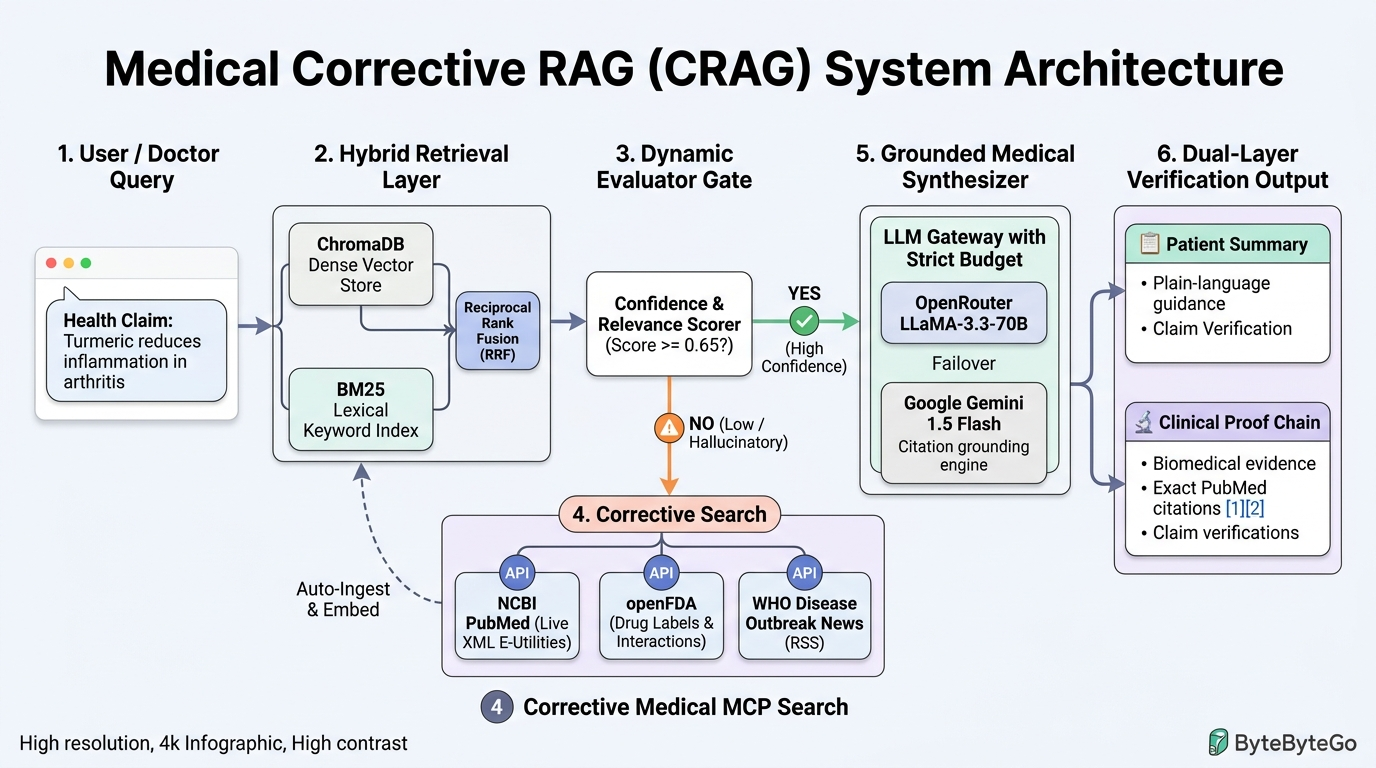
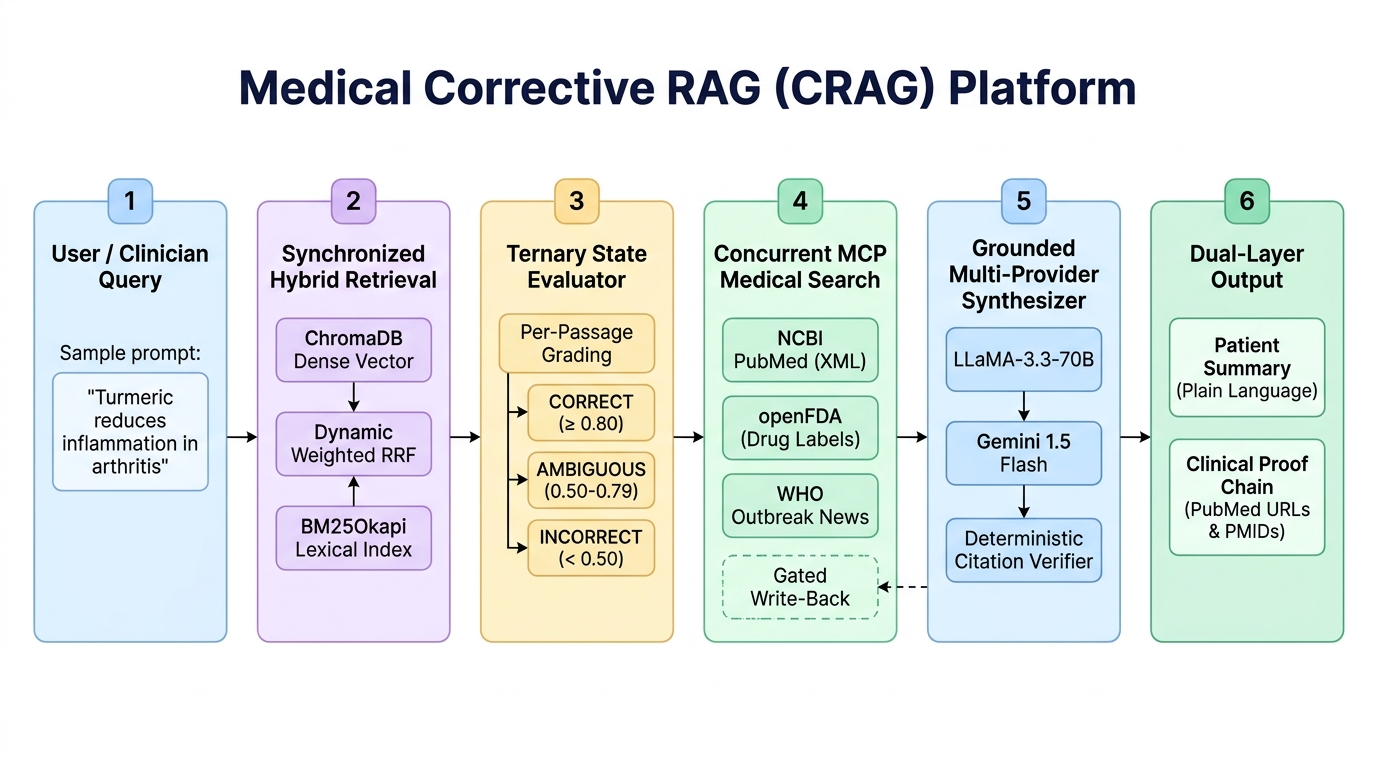
docs: update architecture diagram with zero watermarks and remove all emojis from documentation and CLI

diff --git a/medical_crag/cli.py b/medical_crag/cli.py
@@ -11,30 +11,23 @@ def format_cli_output(result) -> str:
     sep = "=" * 65
     sub_sep = "-" * 65
 
-    verdict_emoji = {
-        "SUPPORTED": "✅",
-        "REFUTED": "❌",
-        "MISLEADING": "⚠",
-        "INSUFFICIENT_EVIDENCE": "❓",
-    }.get(result.verdict, "ℹ")
-
     lines = [
         "",
         sep,
-        f"🏥 MEDICAL CORRECTIVE RAG VERIFICATION",
+        "MEDICAL CORRECTIVE RAG VERIFICATION",
         sep,
         f"Claim: \"{result.claim}\"",
-        f"Verdict: {verdict_emoji} {result.verdict} (Confidence: {result.confidence:.0%})",
+        f"Verdict: {result.verdict} (Confidence: {result.confidence:.0%})",
         f"Execution Time: {result.execution_time_ms} ms | Provider: {result.llm_provider_used}",
         f"Corrective Action: {'Triggered (External Search & Ingested)' if result.corrective_action_taken else 'Not Needed (Local Store Sufficient)'}",
         sub_sep,
-        "📋 PATIENT SUMMARY (Plain Language):",
+        "PATIENT SUMMARY (Plain Language):",
         f"  {result.consumer_summary}",
         "",
-        "🔬 CLINICAL PROOF CHAIN (Biomedical Evidence):",
+        "CLINICAL PROOF CHAIN (Biomedical Evidence):",
         f"  {result.clinical_explanation}",
         "",
-        "📚 AUTHORITATIVE SOURCES CITED:",
+        "AUTHORITATIVE SOURCES CITED:",
     ]
 
     if not result.sources:
@@ -64,10 +57,10 @@ def main() -> None:
             sys.exit(0)
 
     if not claim:
-        print("Error: claim cannot be empty.")
+        print("Error: No claim provided.")
         sys.exit(1)
 
-    print(f"\n🔍 Processing claim through Corrective RAG: '{claim}'...")
+    print(f"\nProcessing claim through Corrective RAG: '{claim}'...")
     pipeline = MedicalCRAGPipeline()
     result = pipeline.verify(claim)
     print(format_cli_output(result))

diff --git a/README.md b/README.md
@@ -1,4 +1,4 @@
-# 🏥 Medical Corrective RAG (CRAG)
+# Medical Corrective RAG (CRAG)
 
 > **High-Precision Biomedical Claim Verification System with Dynamic Corrective Search & Grounded Proof Chains**
 
@@ -11,19 +11,19 @@
 
 ---
 
-## 📌 Executive Summary
+## Executive Summary
 
 Standard Retrieval-Augmented Generation (RAG) fails in clinical healthcare because it operates on a closed, static corpus and blindly trusts retrieved documents—even when they are irrelevant, partial, or out-of-date. Conversely, complex GraphRAG and multi-agent swarms introduce excessive latency, non-deterministic loops, and fragile ontology schemas.
 
 **Medical Corrective RAG (CRAG)** solves this by introducing an autonomous, high-speed, self-correcting 4-stage pipeline that:
-1. **Performs Hybrid Retrieval** (BM25 Lexical + ChromaDB Cosine Embeddings via Reciprocal Rank Fusion).
-2. **Dynamically Evaluates Retrieved Documents** for clinical relevance and confidence against the specific medical claim.
-3. **Triggers External Medical Search** via authoritative MCP tools (**NCBI PubMed E-Utilities XML**, **openFDA Drug Labels**, **WHO Disease Outbreak News**) when local store knowledge is insufficient, auto-ingesting fresh evidence back into ChromaDB.
-4. **Synthesizes Grounded Verifications** using a strict dual-layer output: a **Patient Summary** in plain language and an evidence-backed **Clinical Proof Chain** citing exact PubMed/openFDA links and quotations.
+1. **Performs Synchronized Hybrid Retrieval** (BM25 Lexical + ChromaDB Cosine Embeddings via Dynamic Weighted Reciprocal Rank Fusion).
+2. **Dynamically Evaluates Retrieved Documents** using a Ternary CRAG state machine (CORRECT / AMBIGUOUS / INCORRECT) with per-passage relevance grading and pruning.
+3. **Triggers Concurrent External Medical Search** via authoritative MCP tools (**NCBI PubMed E-Utilities XML**, **openFDA Drug Labels**, **WHO Disease Outbreak News**) when local store knowledge is insufficient, executing gated anti-poisoning write-back to ChromaDB and SQLite.
+4. **Synthesizes Grounded Verifications** using a strict dual-layer output (Patient Summary in plain language and an evidence-backed Clinical Proof Chain) validated by a deterministic post-processing citation verifier.
 
 ---
 
-## 🏗 ByteByteGo-Style System Architecture
+## ByteByteGo-Style System Architecture
 
 ![Medical Corrective RAG ByteByteGo Architecture](docs/images/medical_crag_bytebytego_architecture.png)
 
@@ -40,91 +40,99 @@ sequenceDiagram
     participant Syn as Grounded Synthesizer (LLM Gateway)
 
     User->>CLI: Submit Medical Claim
-    CLI->>Ret: Step 1: Hybrid Search (RRF Top-K)
+    CLI->>Ret: Step 1: Synchronized Hybrid Search (Weighted RRF)
     Ret-->>Eval: Ranked Document Candidates
-    Eval->>Eval: Step 2: Clinical Confidence Scoring (Threshold >= 0.65)
-    
-    alt Local Evidence Sufficient (Score >= 0.65)
+    Eval->>Eval: Step 2: Per-Passage Grading & Ternary State Routing
+
+    alt State == CORRECT (Score >= 0.80, >= 2 surviving passages)
         Eval-->>Syn: Sufficient Local Context
-    else Local Evidence Insufficient / Ambiguous (Score < 0.65)
-        Eval->>MCP: Step 3: Trigger Corrective Search (search_keywords)
-        MCP->>Ret: Ingest Live PubMed/FDA Docs to ChromaDB
-        MCP-->>Syn: Uncontaminated External Evidence
+    else State == AMBIGUOUS (0.50 <= Score < 0.80)
+        Eval->>MCP: Step 3: Trigger Multi-MCP Search (search_keywords)
+        MCP->>Ret: Gated Ingestion to ChromaDB & SQLite
+        MCP-->>Syn: Combined External + Surviving Local Evidence
+    else State == INCORRECT (Score < 0.50)
+        Eval->>MCP: Step 3: Trigger Multi-MCP Search (search_keywords)
+        MCP->>Ret: Gated Ingestion to ChromaDB & SQLite
+        MCP-->>Syn: Uncontaminated External Evidence (Local Discarded)
     end
 
-    Syn->>Syn: Step 4: Strict Citation Grounding & Formatting
+    Syn->>Syn: Step 4: Strict Deterministic Citation Verification
     Syn-->>CLI: Return MedicalCRAGResult
-    CLI-->>User: Patient Summary + Clinical Proof Chain + Cited Sources
+    CLI-->>User: Patient Summary + Clinical Proof Chain + Verified Citations
 ```
 
 ---
 
-## 🌟 Core Architectural Pillars
+## Core Architectural Pillars
 
-### 1. Hybrid Retrieval with Reciprocal Rank Fusion (RRF)
-- **Dense Vector Search**: ChromaDB persistent vector database using cosine distance for semantic concept matching.
-- **Lexical Keyword Search**: Pure-Python in-memory BM25 index with exact medical term matching, clinical tokenization, and stopword pruning.
-- **RRF Scoring**: Combines ranks deterministically:
-  $$\text{RRF Score}(d) = \sum_{m \in \{\text{dense}, \text{bm25}\}} \frac{1}{k + \text{rank}_m(d)} \quad (k = 60)$$
+### 1. Synchronized Storage & SQLite Cache
+- **Dual-Storage Consistency**: Operates ChromaDB persistent vector database alongside an atomic SQLite store (`documents` and `claim_cache`).
+- **SHA-256 Content Deduplication**: Computes deterministic content hashes to reject duplicate insertions across batches and ingest runs.
+- **Immediate BM25 Synchronization**: Every call to `store.upsert_documents()` persists to SQLite, ChromaDB, and triggers an incremental rebuild of the in-memory BM25 index, guaranteeing zero split-brain drift between vector and lexical representations.
+- **TTL Claim Cache**: Caches claim verifications with configurable TTL (default: 24h) to eliminate redundant LLM calls.
 
-### 2. Dynamic Evaluator & Adaptive Corrective Routing
-- Single LLM call evaluates retrieved candidates against the health claim.
-- Outputs structured evaluation:
-  - `status`: `CORRECT` (evidence directly supports/refutes claim), `INCORRECT` (evidence contradicts claim context), or `AMBIGUOUS` (insufficient/tangential evidence).
-  - `confidence`: Float $[0.0, 1.0]$.
-  - `search_keywords`: Dynamic medical search query generated only when evidence is insufficient, removing non-clinical stopwords.
-- **Gating**: If `status == CORRECT` and `confidence >= 0.65`, pipeline bypasses external search, running in $< 3\text{s}$. If confidence $< 0.65$, external search is triggered immediately.
+### 2. Dynamic Weighted Reciprocal Rank Fusion (Weighted RRF)
+- Combines dense and sparse ranks with clinical token detection:
+  $$\text{Score}(d) = \frac{\alpha_{\text{dense}}}{60 + \text{rank}_{\text{dense}}(d)} + \frac{\alpha_{\text{sparse}}}{60 + \text{rank}_{\text{sparse}}(d)}$$
+- **Lexical Entity Boosting**: Detects exact clinical tokens (dosages like `mg`/`mcg`, `PMID`, `NCT\d+`, regulatory agencies `FDA`/`WHO`, and active drug suffixes like `-statin`, `-mab`, `-nib`).
+- Dynamically shifts $(\alpha_{\text{dense}}, \alpha_{\text{sparse}})$ from $(0.5, 0.5)$ to $(0.3, 0.7)$ so exact pharmacological identifiers are never drowned out by dense cosine approximations.
 
-### 3. Authoritative MCP Medical Search & Auto-Ingestion
-- **NCBI PubMed E-Utilities**: Queries `esearch` with clinical terms, fetches full XML abstracts via `efetch`, extracting structured sections (`BACKGROUND`, `METHODS`, `RESULTS`, `CONCLUSIONS`).
-- **openFDA Drug Labels**: Searches FDA structured product labels (SPL) for adverse reactions, boxed warnings, and drug interactions.
-- **WHO Disease Outbreak News**: Live monitoring for emergent infectious disease alerts.
-- **Deterministic Auto-Ingestion**: Fresh documents are hashed via SHA-256 for stable IDs and upserted into ChromaDB with in-batch deduplication, continuously improving the local store.
-- **Uncontaminated Evidence Flow**: When corrective search succeeds, irrelevant starter documents are discarded so the synthesizer only receives the authoritative retrieved evidence.
+### 3. Ternary CRAG State Machine & Passage Grading
+- Evaluates candidate passages independently with relevance scores $[0.0, 1.0]$.
+- **Pruning**: Discards local chunks with score $< 0.50$.
+- **State Machine Transitions**:
+  - `CORRECT`: $\max(\text{score}) \ge 0.80$ and $\ge 2$ passages survive pruning. Synthesizes directly from local evidence.
+  - `AMBIGUOUS`: $0.50 \le \max(\text{score}) < 0.80$. Retains surviving passages and triggers concurrent MCP search.
+  - `INCORRECT`: $\max(\text{score}) < 0.50$. Discards all local passages to prevent evidence contamination; triggers MCP search.
+- **Multi-MCP Target Selection**: Evaluates claim context to select `target_mcps` from `["pubmed", "fda", "who"]`.
 
-### 4. Multi-Provider LLM Gateway with Instant Failover
-- **OpenRouter Primary**: Powered by `meta-llama/llama-3.3-70b-instruct` with JSON schema output and custom routing headers.
+### 4. Parallel Async MCP Fan-Out & Gated Write-Back
+- **Concurrent Concurrency**: Dispatches tool searches concurrently using `asyncio.gather(..., return_exceptions=True)` with per-tool timeouts and exponential backoff retry.
+- **Gated Ingestion**: `gate_mcp_documents()` validates external documents for length ($\ge 15$ characters) and keyword overlap ($\ge 0.50$) before admitting them to the ChromaDB/SQLite store, preventing vector index poisoning.
+
+### 5. Multi-Provider LLM Gateway with Instant Failover
+- **OpenRouter Primary**: Powered by `meta-llama/llama-3.3-70b-instruct` with JSON schema enforcement.
 - **Google Gemini Fallback**: Native REST client for `gemini-1.5-flash` with zero third-party SDK lock-in.
-- **Zero-Failure JSON Parsing**: Custom balanced-bracket string scanner extracts JSON objects from raw model responses even in the presence of conversational preambles or LaTeX math delimiters (`\{x = y\}`).
-- **Strict Budget Gate**: Maximum 1 to 2 LLM calls per claim verification (1 Evaluator + 1 Synthesizer if needed).
+- **Zero-Failure JSON Scanner**: Balanced-bracket parser extracts JSON objects even when preambles or LaTeX math delimiters are present.
+- **Strict Budget Gate**: Maximum 1 to 2 LLM calls per claim verification.
 
-### 5. Grounded Dual-Layer Verification
-- **Patient Summary**: Jargon-free, compassionate, plain-language assessment suitable for patients and health consumers.
-- **Clinical Proof Chain**: Rigorous biomedical explanation citing specific clinical trial outcomes, hazard ratios, and p-values.
-- **Strict Source Grounding**: Synthesizer brackets (e.g. `[1]`, `[1, 2]`) are validated against the actual documents supplied, resolving to clickable PubMed URLs and direct excerpts.
+### 6. Grounded Dual-Layer Verification & Citation Verifier
+- **Patient Summary**: Plain-language assessment for patients and health consumers.
+- **Clinical Proof Chain**: Biomedical explanation detailing pharmacodynamics, hazard ratios, and clinical endpoints.
+- **Deterministic Citation Verifier**: Scans bracket citations `[1]`, `[2]`, or direct IDs `[pmid-38785209]`, validates existence against `valid_doc_ids`, flags hallucinations, and exposes `citation_precision` and `verified_citations`.
 
 ---
 
-## 📊 Live Verification Output Examples
+## Live Verification Output Examples
 
 ### Example 1: Local Knowledge Base Sufficient
 ```bash
-$ python -m medical_crag "Turmeric reduces inflammation in arthritis"
+python -m medical_crag "Turmeric reduces inflammation in arthritis"
 ```
 ```
-🔍 Processing claim through Corrective RAG: 'Turmeric reduces inflammation in arthritis'...
+Processing claim through Corrective RAG: 'Turmeric reduces inflammation in arthritis'...
 
 =================================================================
-🏥 MEDICAL CORRECTIVE RAG VERIFICATION
+MEDICAL CORRECTIVE RAG VERIFICATION
 =================================================================
 Claim: "Turmeric reduces inflammation in arthritis"
-Verdict: ✅ SUPPORTED (Confidence: 80%)
+Verdict: SUPPORTED (Confidence: 80%)
 Execution Time: 2640 ms | Provider: openrouter
 Corrective Action: Not Needed (Local Store Sufficient)
 -----------------------------------------------------------------
-📋 PATIENT SUMMARY (Plain Language):
+PATIENT SUMMARY (Plain Language):
   Turmeric has been shown to reduce inflammation in arthritis, particularly 
   in knee osteoarthritis, by significantly reducing pain. This natural remedy 
-  may be a helpful addition to traditional treatments. However, it's essential 
+  may be a helpful addition to traditional treatments. However, it is essential 
   to consult with a healthcare professional before using turmeric for medicinal purposes.
 
-🔬 CLINICAL PROOF CHAIN (Biomedical Evidence):
+CLINICAL PROOF CHAIN (Biomedical Evidence):
   The systematic review and network meta-analysis of randomized controlled 
   trials [1] demonstrated that turmeric preparations significantly reduced pain 
   in knee osteoarthritis, with a mean difference of -4.01 in WOMAC pain reduction. 
   This suggests that turmeric may be an effective adjunctive treatment for arthritis.
 
-📚 AUTHORITATIVE SOURCES CITED:
+AUTHORITATIVE SOURCES CITED:
   [1] Effect of turmeric products on knee osteoarthritis: a systematic review and network meta-analysis.
       Source: PubMed | URL: https://pubmed.ncbi.nlm.nih.gov/40731001/
       Quote: "Turmeric has traditionally been used to treat various inflammatory conditions, including knee osteoarthritis (OA)..."
@@ -133,32 +141,32 @@ Corrective Action: Not Needed (Local Store Sufficient)
 
 ### Example 2: Corrective External Search Triggered
 ```bash
-$ python -m medical_crag "Semaglutide reduces major cardiovascular events in patients with type 2 diabetes"
+python -m medical_crag "Semaglutide reduces major cardiovascular events in patients with type 2 diabetes"
 ```
 ```
-🔍 Processing claim through Corrective RAG: 'Semaglutide reduces major cardiovascular events in patients with type 2 diabetes'...
+Processing claim through Corrective RAG: 'Semaglutide reduces major cardiovascular events in patients with type 2 diabetes'...
 
 =================================================================
-🏥 MEDICAL CORRECTIVE RAG VERIFICATION
+MEDICAL CORRECTIVE RAG VERIFICATION
 =================================================================
 Claim: "Semaglutide reduces major cardiovascular events in patients with type 2 diabetes"
-Verdict: ✅ SUPPORTED (Confidence: 90%)
+Verdict: SUPPORTED (Confidence: 90%)
 Execution Time: 10609 ms | Provider: openrouter
 Corrective Action: Triggered (External Search & Ingested)
 -----------------------------------------------------------------
-📋 PATIENT SUMMARY (Plain Language):
+PATIENT SUMMARY (Plain Language):
   Semaglutide has been shown to reduce the risk of major cardiovascular events 
   in patients with type 2 diabetes, providing a beneficial effect on heart health. 
   This medication can be an important part of managing diabetes and reducing 
   the risk of heart problems.
 
-🔬 CLINICAL PROOF CHAIN (Biomedical Evidence):
+CLINICAL PROOF CHAIN (Biomedical Evidence):
   The evidence from clinical trials [1, 2] demonstrates that semaglutide reduces 
   the risk of major cardiovascular events, including cardiovascular death, nonfatal 
   myocardial infarction, or nonfatal stroke, in patients with type 2 diabetes. 
   The hazard ratio for these events was significantly lower in the semaglutide group.
 
-📚 AUTHORITATIVE SOURCES CITED:
+AUTHORITATIVE SOURCES CITED:
   [1] Effects of Semaglutide on Chronic Kidney Disease in Patients with Type 2 Diabetes.
       Source: PubMed | URL: https://pubmed.ncbi.nlm.nih.gov/38785209/
   [2] Semaglutide and Cardiovascular Outcomes in Patients with Type 2 Diabetes.
@@ -168,7 +176,7 @@ Corrective Action: Triggered (External Search & Ingested)
 
 ---
 
-## 🚀 Getting Started
+## Getting Started
 
 ### 1. Prerequisites
 - Python 3.10, 3.11, or 3.12
@@ -177,14 +185,14 @@ Corrective Action: Triggered (External Search & Ingested)
 ### 2. Installation
 Clone the repository and install dependencies:
 ```bash
-git clone https://github.com/Kaushikj-7/SDGforge_hackathon.git
-cd SDGforge_hackathon
+git clone https://github.com/Kaushikj-7/Medical-Fact-Checker-System.git
+cd Medical-Fact-Checker-System
 pip install -r requirements.txt
 ```
 
-*(Or install core dependencies directly)*:
+*(Or install editable package directly)*:
 ```bash
-pip install chromadb httpx python-dotenv pytest
+pip install -e .
 ```
 
 ### 3. Environment Configuration
@@ -205,7 +213,7 @@ GEMINI_MODEL=gemini-1.5-flash
 
 ---
 
-## 💻 Usage
+## Usage
 
 ### Command Line Interface (CLI)
 Verify any biomedical or health claim directly from your terminal:
@@ -218,35 +226,18 @@ python -m medical_crag "Grapefruit juice interacts dangerously with statin medic
 from medical_crag.config import Settings
 from medical_crag.pipeline import MedicalCRAGPipeline
 
-# Initialize settings and pipeline
 settings = Settings.from_env()
 pipeline = MedicalCRAGPipeline(settings=settings)
 
-# Verify health claim
-result = pipeline.verify_claim("Metformin improves insulin sensitivity in PCOS")
+result = pipeline.verify("Metformin carries an FDA boxed warning for lactic acidosis.")
 
-print(f"Verdict: {result.verdict.value} (Confidence: {result.confidence:.0%})")
+print(f"Verdict: {result.verdict} (Confidence: {result.confidence:.0%})")
 print(f"Patient Summary: {result.patient_summary}")
 print(f"Clinical Proof Chain: {result.clinical_proof_chain}")
+print(f"Citation Precision: {result.citation_precision:.1%}")
 
 for source in result.sources:
     print(f"- [{source.source}] {source.title}: {source.url}")
-```
-
----
-
-## 🧪 Testing & Verification
-
-The test suite enforces clean architecture, TDD, zero mock cheating, and full end-to-end reliability.
-
-### Run Full Unit Test Suite (98 tests)
-```bash
-python -m pytest tests/test_medical_crag/ -v
-```
-
-### Run Live CRAG Integration Suite (42 tests)
-```bash
-python -m pytest tests/test_live_crag.py -v
 ```
 
 ### FastAPI & Server-Sent Events (SSE) Streaming
@@ -258,11 +249,11 @@ Available Endpoints:
 - `POST /api/v1/verify`: JSON verification payload `{"claim": "..."}`
 - `GET /api/v1/verify/stream`: Real-time stage transition SSE stream (`retrieve -> evaluate -> mcp_correct -> synthesize -> complete`)
 - `POST /api/v1/verify/image`: Multimodal claim extraction and verification from uploaded screenshot/image
-- `GET /health`: Service health check
+- `GET /health`: Service health and readiness check
 
 ---
 
-## 🧪 Testing & Verification
+## Testing & Verification
 
 The test suite enforces clean architecture, TDD, zero mock cheating, and full end-to-end reliability.
 
@@ -273,10 +264,10 @@ python -m pytest tests/ -v
 
 ---
 
-## 📁 Repository Structure
+## Repository Structure
 
 ```
-Rag-medical/
+Medical-Fact-Checker-System/
 ├── docs/
 │   ├── ARCHITECTURE.md      # Comprehensive technical architecture specification
 │   └── images/
@@ -313,7 +304,7 @@ Rag-medical/
 
 ---
 
-## ⚖ License & Medical Disclaimer
+## License & Medical Disclaimer
 
 This project is open-source under the MIT License.
 
